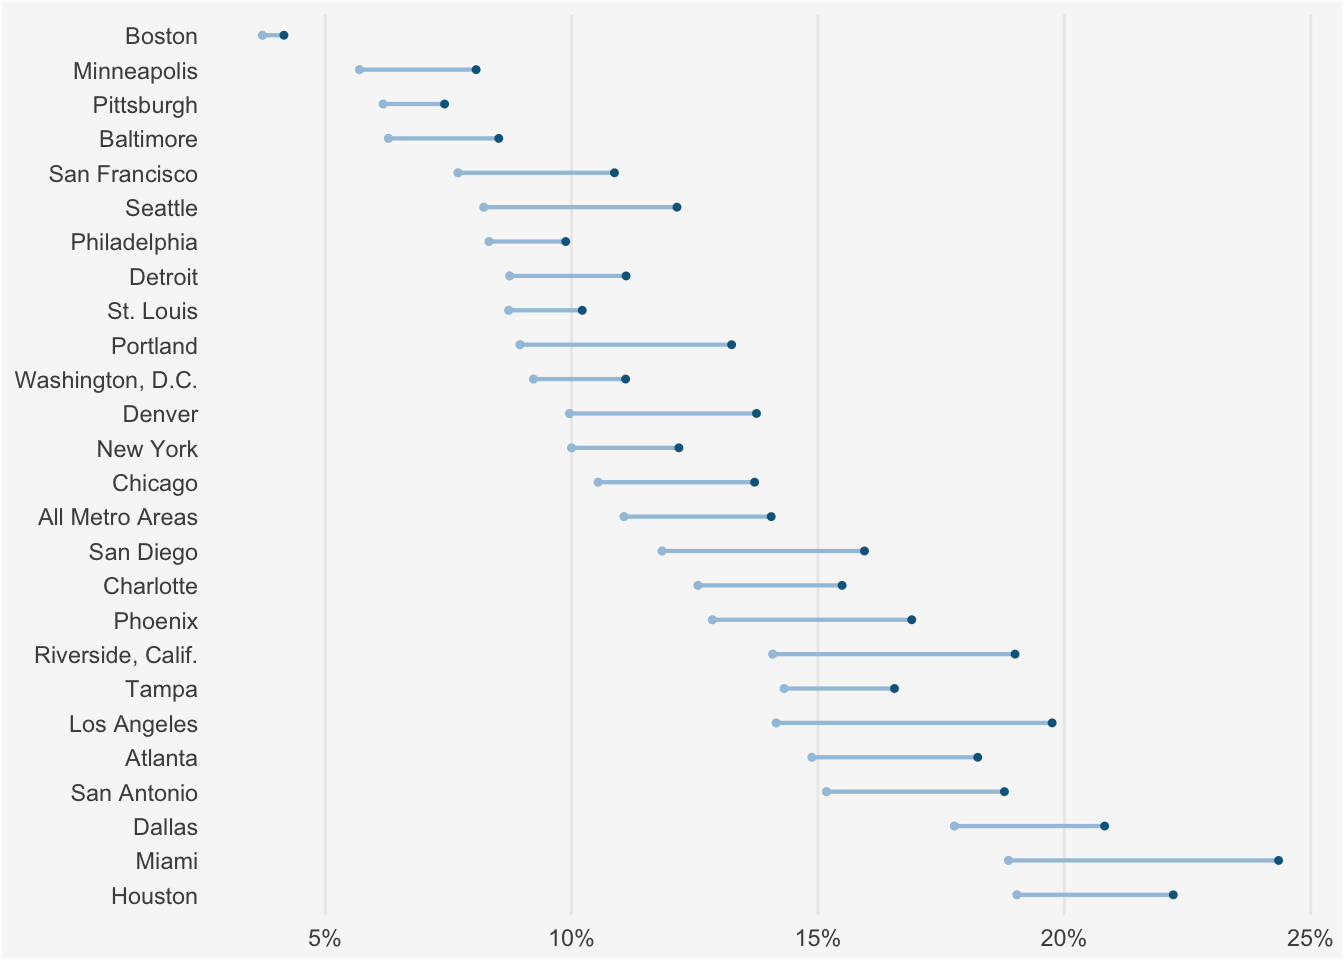
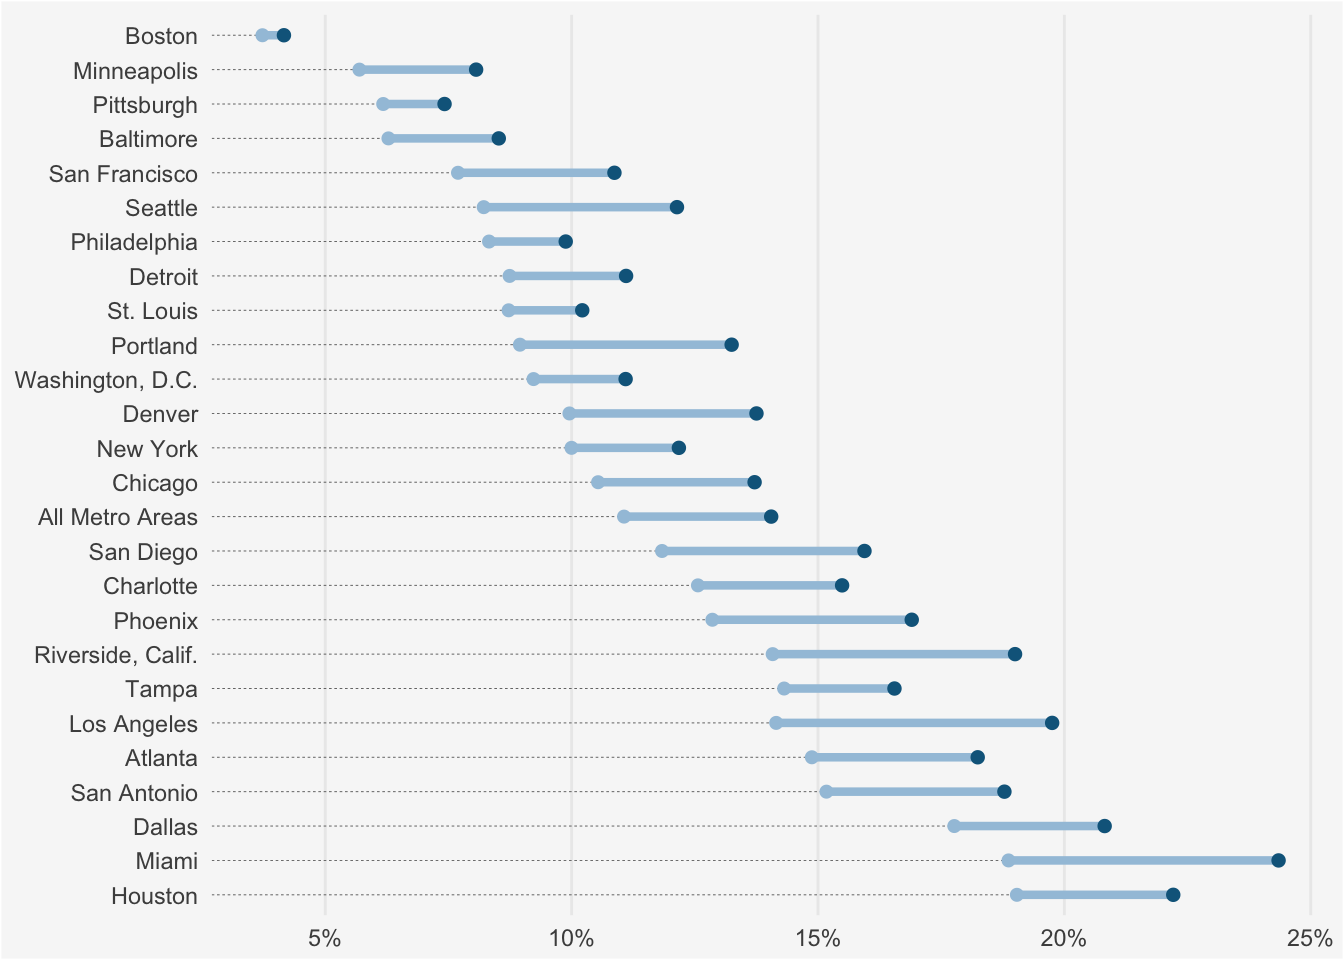
more dummbell tweaks

diff --git a/README.md b/README.md
@@ -8,7 +8,7 @@ A compendium of 'geoms', 'coords', 'stats', scales and fonts for 'ggplot2', incl
 
 The following functions are implemented:
 
--   `coord_proj` : Like `coord_map`, only better 😜 (prbly shld use this with `geom_cartogram` as `geom_map`'s new defaults are ugh)
+-   `coord_proj` : Like `coord_map`, only better (prbly shld use this with `geom_cartogram` as `geom_map`'s new defaults are ugh)
 -   `geom_xspline` : Connect control points/observations with an X-spline
 -   `stat_xspline` : Connect control points/observations with an X-spline
 -   `geom_bkde` : Display a smooth density estimate (uses `KernSmooth::bkde`) -- `geom_stateface`: Use ProPublica's StateFace font in ggplot2 plots- `stat_bkde` : Display a smooth density estimate (uses `KernSmooth::bkde`)
@@ -407,7 +407,7 @@ library(ggalt)
 library(scales)
  
 gg <- ggplot(df, aes(y=reorder(category, pct), x=pct))
-gg <- gg + geom_lollipop(point.colour="steelblue", point.size=3, horizontal=TRUE)
+gg <- gg + geom_lollipop(point.colour="steelblue", point.size=2, horizontal=TRUE)
 gg <- gg + scale_x_continuous(expand=c(0,0), labels=percent,
                               breaks=seq(0, 1, by=0.2), limits=c(0, 1))
 gg <- gg + labs(x=NULL, y=NULL, 
@@ -418,7 +418,7 @@ gg <- gg + theme_minimal(base_family="Arial Narrow")
 gg <- gg + theme(panel.grid.major.y=element_blank())
 gg <- gg + theme(panel.grid.minor=element_blank())
 gg <- gg + theme(axis.line.y=element_line(color="#2b2b2b", size=0.15))
-gg <- gg + theme(axis.text.y=element_text(margin=margin(r=-5, l=0)))
+gg <- gg + theme(axis.text.y=element_text(margin=margin(r=0, l=0)))
 gg <- gg + theme(plot.margin=unit(rep(30, 4), "pt"))
 gg <- gg + theme(plot.title=element_text(face="bold"))
 gg <- gg + theme(plot.subtitle=element_text(margin=margin(b=10)))
@@ -451,9 +451,9 @@ health %>%
 setNames(bind_cols(filter(health, year==2014), filter(health, year==2013))[,c(4,1,5)],
          c("area_name", "pct_2014", "pct_2013")) -> health
 
-
-gg <- ggplot(health, aes(x=pct_2013, xend=pct_2014, y=area_name, group=area_name))
-gg <- gg + geom_dumbbell(color="#a3c4dc", size=0.75, point.colour.l="#0e668b")
+gg <- ggplot(health, aes(x=pct_2014, xend=pct_2013, y=area_name, group=area_name))
+gg <- gg + geom_dumbbell(colour="#a3c4dc", size=1.5, colour_xend="#0e668b", 
+                         dot_guide=TRUE, dot_guide_size=0.15)
 gg <- gg + scale_x_continuous(label=percent)
 gg <- gg + labs(x=NULL, y=NULL)
 gg <- gg + theme_bw()
@@ -477,8 +477,8 @@ df <- data.frame(trt=LETTERS[1:5], l=c(20, 40, 10, 30, 50), r=c(70, 50, 30, 60, 
 
 ggplot(df, aes(y=trt, x=l, xend=r)) + 
   geom_dumbbell(size=3, color="#e3e2e1", 
-                point.colour.l = "#5b8124", point.colour.r = "#bad744",
-                dot_guide=TRUE, dot_guide_size=0.75) +
+                colour_x = "#5b8124", colour_xend = "#bad744",
+                dot_guide=TRUE, dot_guide_size=0.25) +
   labs(x=NULL, y=NULL, title="ggplot2 geom_dumbbell with dot guide") +
   theme_ipsum_rc(grid="X") +
   theme(panel.grid.major.x=element_line(size=0.05))
